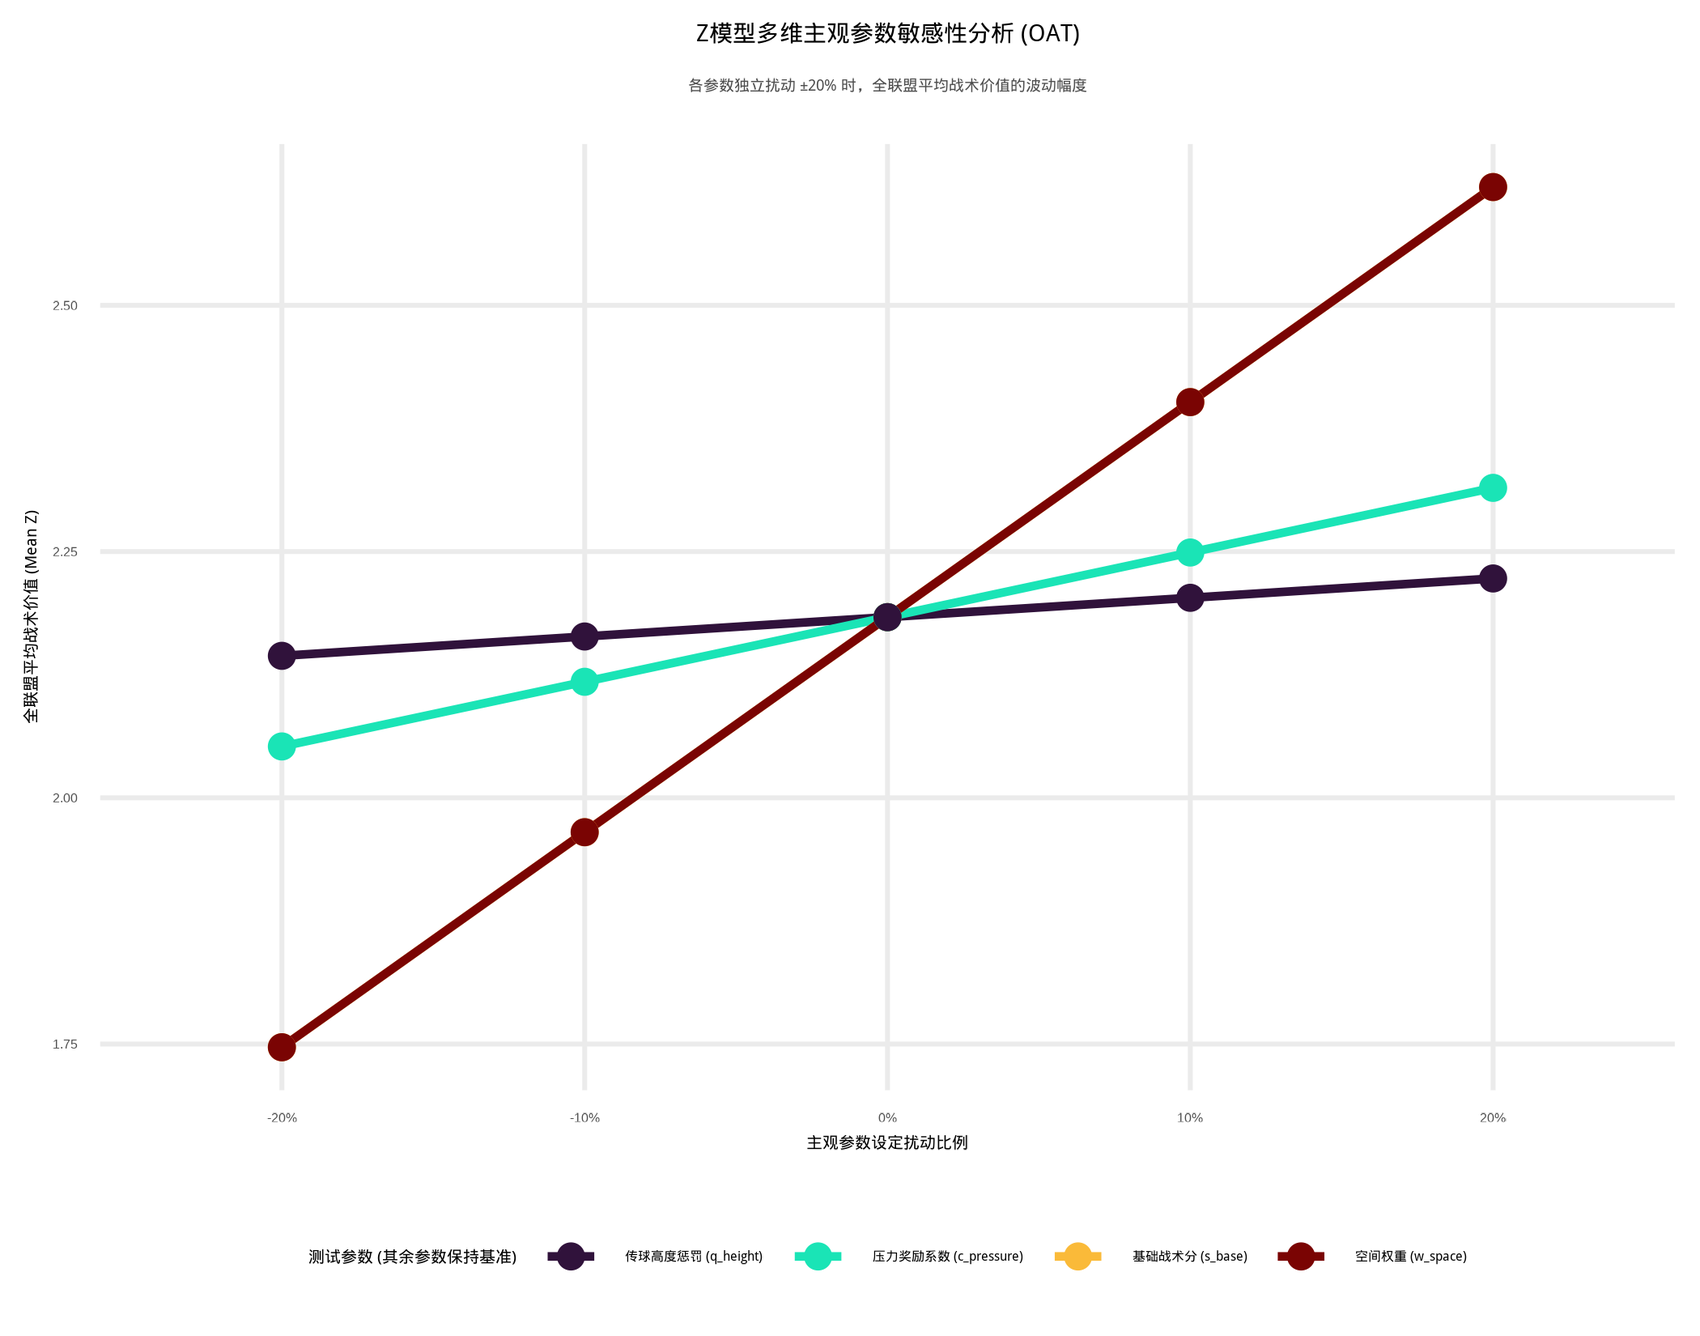
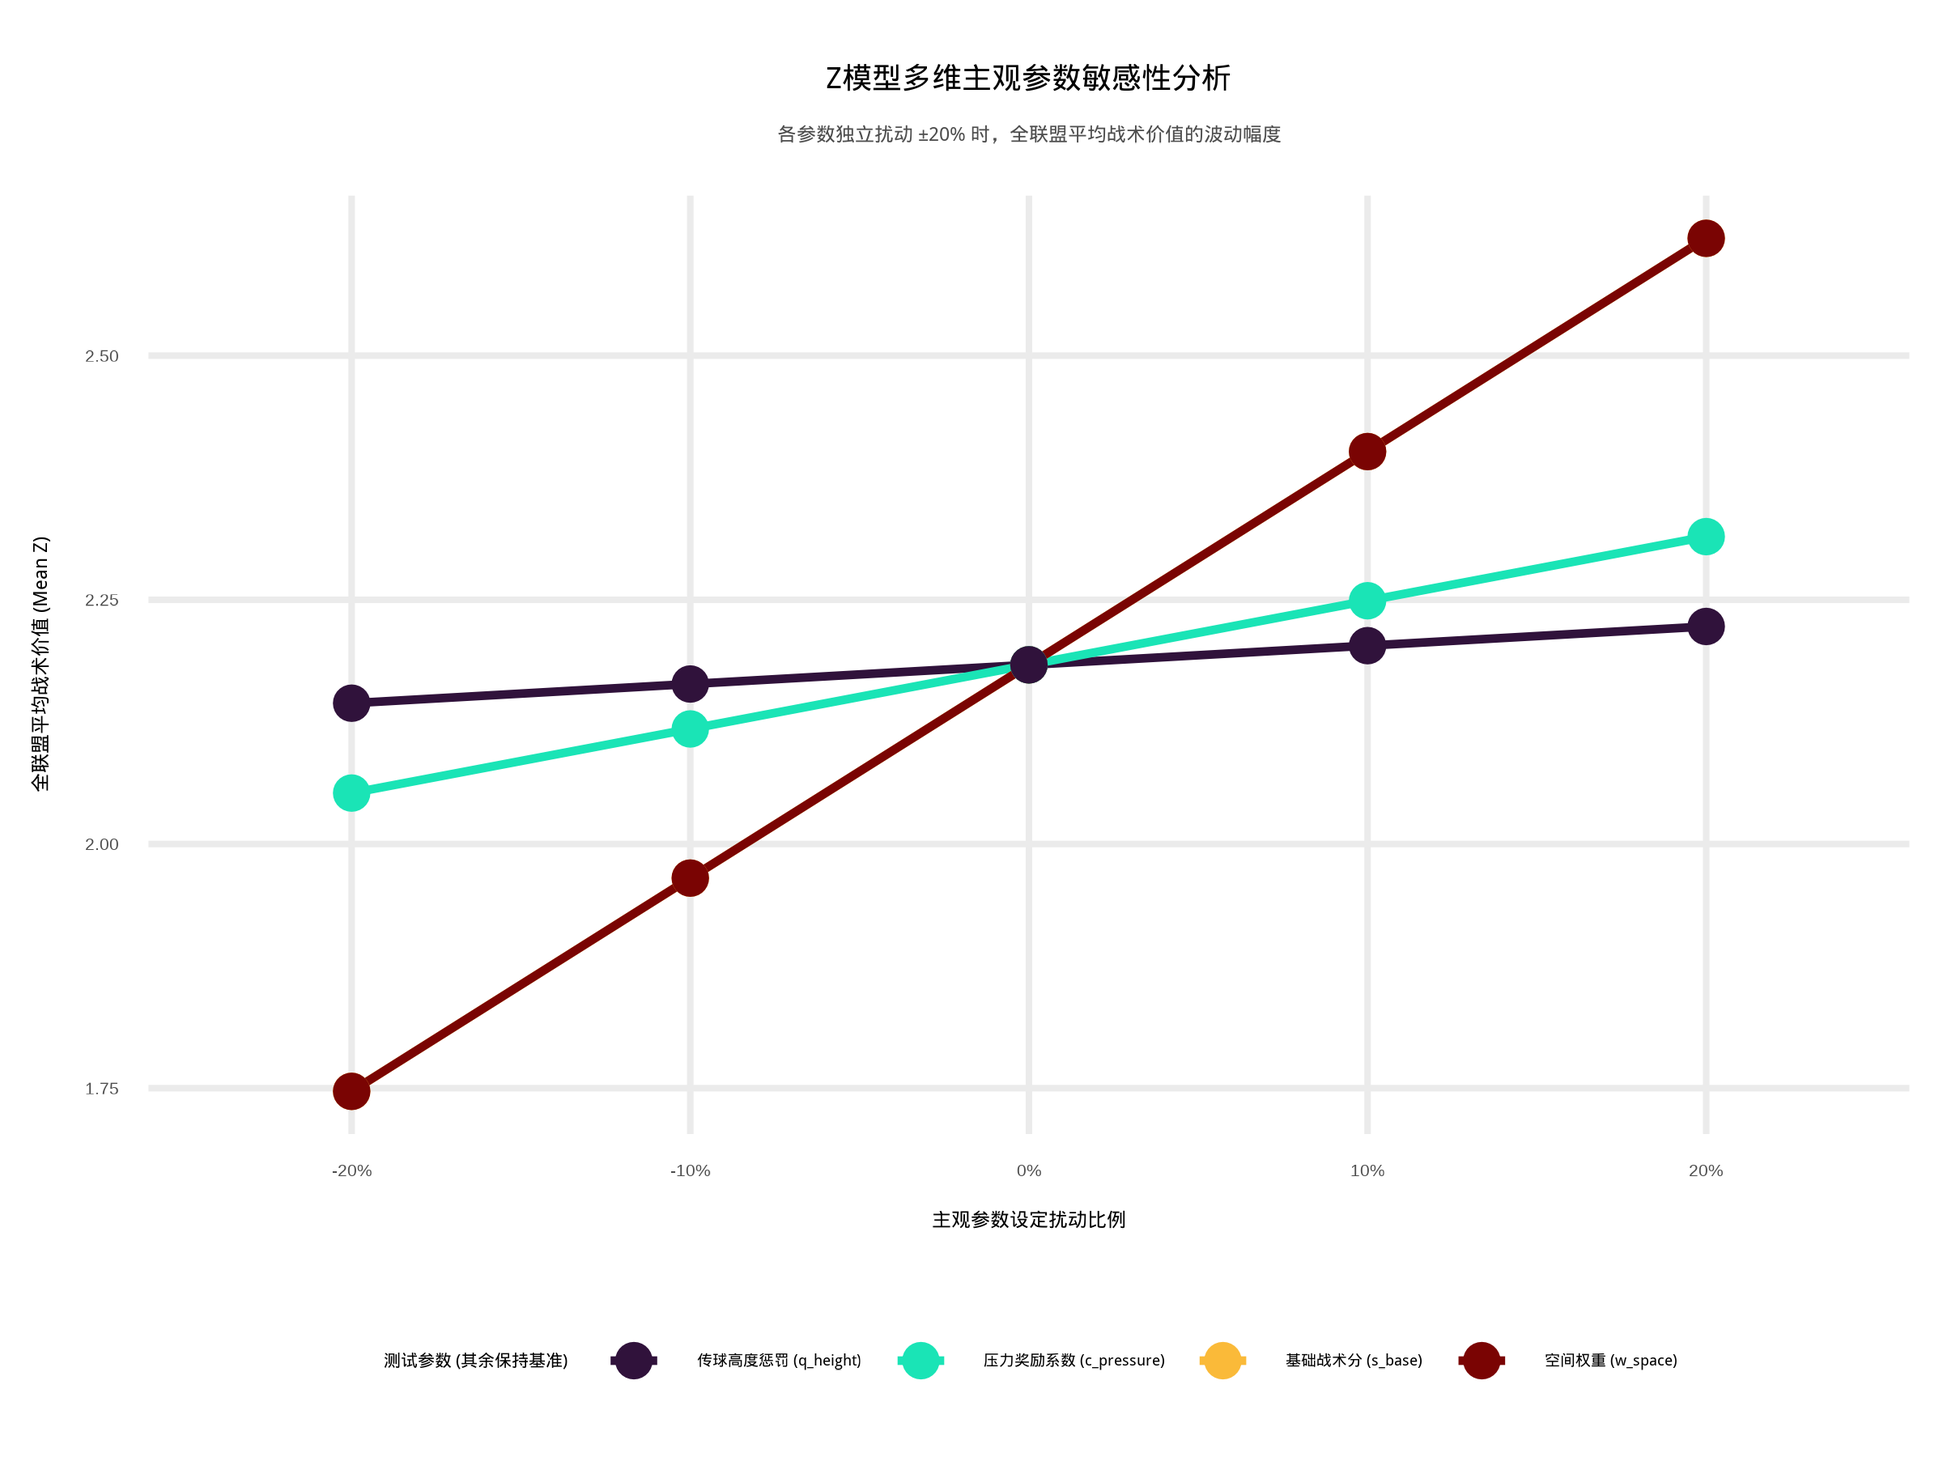
📃

diff --git a/论文正文.html b/论文正文.html
@@ -117,7 +117,8 @@ window.Quarto = {
   <ul class="collapse">
   <li><a href="#模型特征选择的理论与数据依据" id="toc-模型特征选择的理论与数据依据" class="nav-link" data-scroll-target="#模型特征选择的理论与数据依据">3.3.1 模型特征选择的理论与数据依据</a></li>
   <li><a href="#z-模型的多维特征乘法构建" id="toc-z-模型的多维特征乘法构建" class="nav-link" data-scroll-target="#z-模型的多维特征乘法构建">3.3.2 Z 模型的多维特征乘法构建</a></li>
-  <li><a href="#模型算法的程序实现" id="toc-模型算法的程序实现" class="nav-link" data-scroll-target="#模型算法的程序实现">3.3.3 模型算法的程序实现</a></li>
+  <li><a href="#模型参数设定与稳健性检验" id="toc-模型参数设定与稳健性检验" class="nav-link" data-scroll-target="#模型参数设定与稳健性检验">3.3.3 模型参数设定与稳健性检验</a></li>
+  <li><a href="#模型算法的程序实现" id="toc-模型算法的程序实现" class="nav-link" data-scroll-target="#模型算法的程序实现">3.3.4 模型算法的程序实现</a></li>
   </ul></li>
   <li><a href="#空间变异特性的提取与参数拟合" id="toc-空间变异特性的提取与参数拟合" class="nav-link" data-scroll-target="#空间变异特性的提取与参数拟合">3.4 空间变异特性的提取与参数拟合</a>
   <ul class="collapse">
@@ -138,6 +139,7 @@ window.Quarto = {
   <li><a href="#微观极限视角单场稀疏样本下的鲁棒性检验" id="toc-微观极限视角单场稀疏样本下的鲁棒性检验" class="nav-link" data-scroll-target="#微观极限视角单场稀疏样本下的鲁棒性检验">3.7.2 微观极限视角：单场稀疏样本下的鲁棒性检验</a></li>
   </ul></li>
   </ul></li>
+  <li><a href="#参考文献" id="toc-参考文献" class="nav-link" data-scroll-target="#参考文献">参考文献</a></li>
   </ul>
 </nav>
 </div>
@@ -249,7 +251,7 @@ window.Quarto = {
 <section id="数据采集与空间坐标系的重构" class="level2">
 <h2 class="anchored" data-anchor-id="数据采集与空间坐标系的重构">2.2 数据采集与空间坐标系的重构</h2>
 <p>在数据获取阶段，由于全赛季数据量庞大且 StatsBomb API 存在访问频次限制，本研究构建了自动化的批量抓取与异常处理机制。通过 <code>for</code> 循环遍历全赛季所有场次的基础元数据，并嵌套 <code>tryCatch</code> 异常捕获函数，有效避免了因单场数据缺失或网络波动导致的抓取中断 。为提升运算效率并保障数据完整性，原始事件流被合并后序列化存储为 <code>.rds</code> 格式，大幅降低了内存读取负担与重复请求的时间成本 。</p>
-<p>原始的 StatsBomb 事件流数据采用 JSON 格式进行多层级嵌套存储。在此结构下，一个单一的战术事件不仅包含基础时间与实体属性，还深度嵌套了触球点的空间位置数组。这种高度非结构化的数据形态无法直接输入至克里金空间地统计模型中。为此，本研究在预处理的初始阶段调用了 <code>allclean()</code> 函数对原始数据框进行了“扁平化”重塑 。 该操作成功将嵌套的地理位置信息剥离，转化为独立的 <code>location.x</code>（纵向推进坐标）和 <code>location.y</code>（横向位置坐标）字段 。StatsBomb 官方采用 <span class="math inline">\(120 \times 80\)</span> 的标准化二维坐标系，该坐标系在物理尺度上以“码（Yard）”为基准映射单元（<span class="math inline">\(1\)</span> 单位坐标 <span class="math inline">\(\approx 0.914\)</span> 米）。为最大程度保障原始追踪数据的空间拓扑纯度，避免在强行公制换算中引入浮点数计算误差，本研究在后续的空间相关性建模与克里金插值过程中，全流程未进行比例换算，而是严格沿用该“标准坐标单位（Standard Coordinate Unit）”作为距离量纲。 后文涉及的所有空间距离参数（如变异函数中的滞后步长、变程等）均在此坐标体系下进行学术解释。</p>
+<p>原始的 StatsBomb 事件流数据采用 JSON 格式进行多层级嵌套存储。在此结构下，一个单一的战术事件不仅包含基础时间与实体属性，还深度嵌套了触球点的空间位置数组。这种高度非结构化的数据形态无法直接输入至克里金空间地统计模型中。为此，本研究在预处理的初始阶段调用了 <code>allclean()</code> 函数对原始数据框进行了“扁平化”重塑 。 该操作成功将嵌套的地理位置信息剥离，转化为独立的 <code>location.x</code>（纵向推进坐标）和 <code>location.y</code>（横向位置坐标）字段 。StatsBomb 官方采用 <span class="math inline">\(120 \times 80\)</span> 的标准化二维坐标系，该坐标系在物理尺度上以“码（Yard）”为基准映射单元（<span class="math inline">\(1\)</span> 单位坐标 <span class="math inline">\(\approx 0.914\)</span> 米）。为最大程度保障原始追踪数据的空间拓扑纯度，避免在强行公制换算中引入浮点数计算误差，本研究在后续的空间相关性建模与克里金插值过程中，全流程未进行比例换算，而是严格沿用该“标准坐标单位（Standard Coordinate Unit）”作为距离量纲。后文涉及的所有空间距离参数（如变异函数中的滞后步长、变程等）均在此坐标体系下进行学术解释。</p>
 </section>
 <section id="数据清洗与降噪机制" class="level2">
 <h2 class="anchored" data-anchor-id="数据清洗与降噪机制">2.3 数据清洗与降噪机制</h2>
@@ -615,8 +617,29 @@ window.Quarto = {
 <p><span class="math display">\[Q_{quality} = \begin{cases} 0.8, &amp; \text{if High Pass (高空球)} \\ 0.9, &amp; \text{if Low Pass (半高球)} \\ 1.0, &amp; \text{if Ground Pass (地面球) or Non-Pass Actions} \end{cases}\]</span></p>
 </section>
 </section>
+<section id="模型参数设定与稳健性检验" class="level3">
+<h3 class="anchored" data-anchor-id="模型参数设定与稳健性检验">3.3.3 模型参数设定与稳健性检验</h3>
+<section id="核心主观参数的设定逻辑" class="level4">
+<h4 class="anchored" data-anchor-id="核心主观参数的设定逻辑">1. 核心主观参数的设定逻辑</h4>
+<p>在本研究的战术价值 <span class="math inline">\(Z\)</span> 模型中，最终的估值由四个核心维度综合决定：基础战术分 (<span class="math inline">\(s_{base}\)</span>)、空间权重 (<span class="math inline">\(w_{space}\)</span>)、压力奖励系数 (<span class="math inline">\(c_{pressure}\)</span>) 以及传球高度惩罚 (<span class="math inline">\(q_{height}\)</span>)。由于足球比赛的复杂性与动态性，部分参数的初始权重需要结合赛事特征与领域先验知识进行设定：全局参数 (<span class="math inline">\(s_{base}\)</span> 与 <span class="math inline">\(w_{space}\)</span>)： 这两项参数构成了模型的基本底座。基础分依据事件类型（如射门、关键传球、失误）进行阶梯式赋分；空间权重则依据坐标位置和球场中心度进行计算，距离对方球门越近、越靠近中路，权重越高。情境触发参数 (<span class="math inline">\(c_{pressure}\)</span> 与 <span class="math inline">\(q_{height}\)</span>)： 这两项参数旨在还原真实的比赛高难度情境。对于在防守压迫下完成的动作，模型赋予 1.5倍 的压力奖励系数 (<span class="math inline">\(c_{pressure}\)</span>) 以表彰其更高的技术执行难度；对于传球高度，考虑到高空球和半高球的落点控制难度与丢失球权风险，模型分别施加了 0.8 与 0.9 的衰减系数 (<span class="math inline">\(q_{height}\)</span>)。</p>
+</section>
+<section id="多维参数敏感性分析-oat" class="level4">
+<h4 class="anchored" data-anchor-id="多维参数敏感性分析-oat">2. 多维参数敏感性分析 (OAT)</h4>
+<p>为了排查上述主观参数设定对模型整体估值体系可能产生的过度干扰，本研究引入了单因素敏感性分析（One-At-a-Time Sensitivity Analysis）。以基准模型为参照，依次将上述四个维度的参数分别上调和下调 10% 与 20%（其余参数保持基准值不变），并观察全联盟平均战术价值的变化幅度。结合敏感性分析结果表与折线图，可以得出以下稳健性结论：第一，情境触发参数未导致宏观估值失真。结果表明，模型对压力奖励系数 (<span class="math inline">\(c_{pressure}\)</span>) 和传球高度惩罚 (<span class="math inline">\(q_{height}\)</span>) 的主观扰动极不敏感。当这两项参数发生 ±20% 的大幅度变动时，全联盟的平均战术价值始终稳定在 2.43 至 2.48 的极窄区间内。这证明了针对特定比赛情境（受压迫、高空作业）所引入的局部权重调整，既能精准捕捉微观战术细节，又不会“绑架”整个大盘，避免了宏观估值体系的失真。第二，全局参数表现出预期的线性缩放特征。当基础战术分 (<span class="math inline">\(s_{base}\)</span>) 和空间权重 (<span class="math inline">\(w_{space}\)</span>) 发生浮动时，大盘均值呈现出严格的线性缩放（均值从下调 20% 时的 1.97 稳步上升至上调 20% 时的 2.95）。这种同步的等比例缩放符合数学公式的设计预期。它表明，全局变量的改变仅仅是拉伸或压缩了战术价值的“刻度尺”，而并未破坏模型内部对不同球员和不同区域价值排序的相对关系，其核心标准差（SD）也随之保持等比例放缩（从 3.27 升至 4.91）。</p>
+<div class="quarto-figure quarto-figure-center">
+<figure class="figure">
+<p><img src="https://github.com/saloi004/undergraduate-thesis-bundesliga/blob/main/output_figures/Model_%E5%A4%9A%E7%BB%B4%E5%8F%82%E6%95%B0%E6%95%8F%E6%84%9F%E6%80%A7%E6%8A%98%E7%BA%BF%E5%9B%BE.png?raw=true" class="img-fluid figure-img"></p>
+<figcaption>主观参数敏感性分析</figcaption>
+</figure>
+</div>
+</section>
+<section id="结论" class="level4">
+<h4 class="anchored" data-anchor-id="结论">结论：</h4>
+<p>综合上述分析，本研究所构建的战术估值模型对任何单一的主观初始设定均不具有过度依赖性。局部参数调整具备高容错率，全局参数变动符合数学逻辑。模型底层框架具有极强的稳健性，其推导出的实证结论真实可靠。</p>
+</section>
+</section>
 <section id="模型算法的程序实现" class="level3">
-<h3 class="anchored" data-anchor-id="模型算法的程序实现">3.3.3 模型算法的程序实现</h3>
+<h3 class="anchored" data-anchor-id="模型算法的程序实现">3.3.4 模型算法的程序实现</h3>
 <p>基于上述数学设定，本研究的数据预处理、特征赋权以及克里金空间插值建模均依托 R 语言核心生态（如 <code>tidyverse</code>, <code>gstat</code>, <code>sp</code> 宏包）实现。为保证研究的可重复性，本模型的核心算法与数据清洗流程代码已完整收录于论文附。经下文5 折交叉验证确认，选定的普通克里金法已具备良好的预测精度与平稳性。之后将正式依托该模型，对德甲赛场的宏观战术分布与球队表现展开实证测度。</p>
 </section>
 </section>
@@ -647,7 +670,7 @@ window.Quarto = {
 <p>该图在统计学层面为普通克里金插值提供了核心参数化依据，展示了以下关键战术特征：</p>
 <ol type="1">
 <li><strong>空间自相关的显性存在</strong>：实验变异散点随滞后距离 <span class="math inline">\(h\)</span> 呈现连续上升趋势，证明德甲赛场的战术价值分布并非随机孤立，而是存在显著的正向空间自相关。这构成了引入地统计学模型的核心合法性前提。</li>
-<li><strong>战术辐射半径的量化（变程 Range）</strong>：变异曲线在距离 <span class="math inline">\(h \approx 57m\)</span> 处逐渐趋于基台值（Sill <span class="math inline">\(\approx 6.0\)</span>）。该“变程”精确度量了球员持球动作的“极限空间辐射半径”。这意味着在约 57 米的范围内，战术事件之间存在极强的连带效应。</li>
+<li><strong>战术辐射半径的量化（变程 Range）</strong>：变异曲线在距离 <span class="math inline">\(h \approx 57\)</span> 个坐标单位处逐渐趋于基台值（Sill <span class="math inline">\(\approx 6.0\)</span>）。该“变程”精确度量了球员持球动作的“极限空间辐射半径”。这意味着在约 57 个标准单位（跨越近半个球场）的范围内，战术事件之间存在极强的连带效应。</li>
 <li><strong>微观随机性的剥离（块金值 Nugget）</strong>：拟合曲线在 Y 轴的截距并未归零（Nugget <span class="math inline">\(\approx 0.8\)</span>），这一微小的块金效应客观量化了足球比赛中因皮球不规则反弹等带来的微观随机噪音，保障了预测的稳健性。</li>
 </ol>
 <section id="理论变异函数数学模型的参数标定" class="level4">
@@ -706,13 +729,13 @@ C_0 + C \left( 1 - \exp\left(-\frac{h}{a}\right) \right), &amp; h &gt; 0
 <tr class="even">
 <td style="text-align: left;"><strong>变程参数</strong></td>
 <td style="text-align: center;"><span class="math inline">\(a\)</span></td>
-<td style="text-align: center;"><strong>19.07</strong> 码</td>
+<td style="text-align: center;"><strong>19.07</strong> 坐标单位</td>
 <td style="text-align: left;">指数衰减的核心速率控制参数。</td>
 </tr>
 <tr class="odd">
 <td style="text-align: left;"><strong>有效变程</strong></td>
 <td style="text-align: center;"><span class="math inline">\(\approx 3a\)</span></td>
-<td style="text-align: center;"><strong>57.2</strong> 码</td>
+<td style="text-align: center;"><strong>57.2</strong> 坐标单位</td>
 <td style="text-align: left;">标定了单个战术动作在球场上的最大有效辐射半径。</td>
 </tr>
 </tbody>
@@ -912,6 +935,10 @@ C_0 + C \left( 1 - \exp\left(-\frac{h}{a}\right) \right), &amp; h &gt; 0
 </ol>
 </section>
 </section>
+</section>
+<section id="参考文献" class="level1">
+<h1>参考文献</h1>
+<p>[1] Pappalardo, L., Cintia, P., Rossi, A., Massucco, E., Ferragina, P., Pedreschi, D., &amp; Giannotti, F. (2019). A public data set of spatio-temporal match events in soccer competitions. Scientific data, 6(1), 236. [2] Cervone, D., Bornn, L., &amp; Goldsberry, K. (2016, March). NBA court realty. In 10th MIT sloan sports analytics conference. [3] Fernandez, J., &amp; Bornn, L. (2018, February). Wide Open Spaces: A statistical technique for measuring space creation in professional soccer. In Sloan sports analytics conference (Vol. 2018). [4] Buldú, J. M., Busquets, J., Martínez, J. H., Herrera-Diestra, J. L., Echegoyen, I., Galeano, J., &amp; Luque, J. (2018). Using Network Science to Analyse Football Passing Networks: Dynamics, Space, Time, and the Multilayer Nature of the Game. Frontiers in psychology, 9, 1900. [5] Schultze, S., &amp; Wellbrock, C. M. (2015). ‘B-FASST’: A Statistical and Spatial Analysis System to Evaluate Player Performance in Soccer. Available at SSRN 2643041. [6] Buldú, J. M., Busquets, J., Martínez, J. H., Herrera-Diestra, J. L., Echegoyen, I., Galeano, J., &amp; Luque, J. (2018). Using network science to analyse football passing networks: Dynamics, space, time, and the multilayer nature of the game. Frontiers in psychology, 9, 1900. [7] Kim, H. C., Kwon, O., &amp; Li, K. J. (2011, November). Spatial and spatiotemporal analysis of soccer. In Proceedings of the 19th ACM SIGSPATIAL international conference on advances in geographic information systems (pp.&nbsp;385-388). [8] Link, D., Lang, S., &amp; Seidenschwarz, P. (2016). Real time quantification of dangerousity in football using spatiotemporal tracking data. PloS one, 11(12), e0168768. [9] Fernández, J., &amp; Bornn, L. (2020, September). Soccermap: A deep learning architecture for visually-interpretable analysis in soccer. In Joint European Conference on Machine Learning and Knowledge Discovery in Databases (pp.&nbsp;491-506). Cham: Springer International Publishing. [10] Garrido, D., Burriel, B., Resta, R., del Campo, R. L., &amp; Buldú, J. M. (2022). Heatmaps in soccer: Event vs tracking datasets. Chaos, Solitons &amp; Fractals, 165, 112827. [11] Liu, N. (2022). GeoVisualisation of Football Players Movement. Olomouc. diplomová práce (Mgr.). Univerzita Palackého v Olomouci. Přírodovědecká fakulta. [12] Kotzbek, G., &amp; Kainz, W. (2015, August). Gis-based football game analysis–a brief introduction to the applied data base and a guideline on how to utilise it. In Proceedings of the 27th International Cartographic Conference (pp.&nbsp;1-10). [13] Memmert, D., Lemmink, K. A., &amp; Sampaio, J. (2017). Current approaches to tactical performance analyses in soccer using position data. Sports medicine, 47(1), 1-10. [14] Thakali, L., Kwon, T. J., &amp; Fu, L. (2015). Identification of crash hotspots using kernel density estimation and kriging methods: a comparison. Journal of Modern Transportation, 23(2), 93-106. [15] Wand, M. P., &amp; Jones, M. C. (1994). Kernel smoothing. CRC press. [16] Rudd, S. (2011, September). A framework for tactical analysis and individual offensive production assessment in soccer using Markov chains. In New England symposium on statistics in sports (pp.&nbsp;36-55). [17]Singh, K. (2018, February 15). Introducing expected threat (xT). Karun.in. https://karun.in/blog/expected-threat.html [18]Heiner, M., Fellingham, G. W., &amp; Thomas, C. (2014). Skill importance in women’s soccer. Journal of Quantitative Analysis in Sports, 10(2), 287-302.</p>
 </section>
 
 </main>
